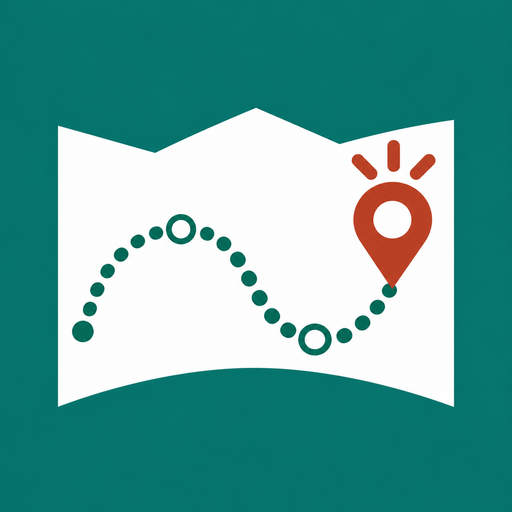
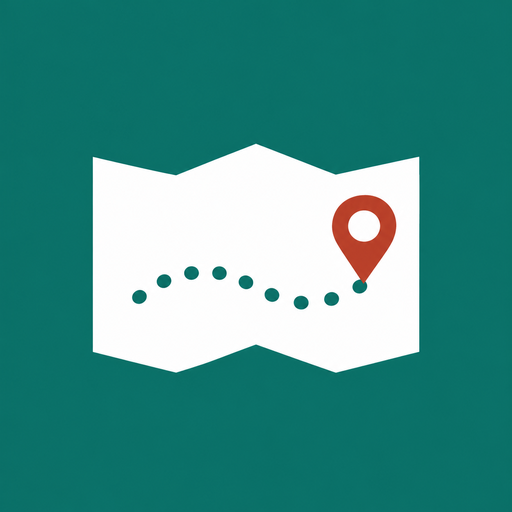
1.0.2: アイコンを D（余白のある地図とピン）に

Changed region(s): [[0.0938, 0.2188, 0.9062, 0.8125]]

diff --git a/sw.js b/sw.js
@@ -1,7 +1,7 @@
 // 旅ルートくんの殻をキャッシュする（設計書 §10.2）。API・地図タイル・写真はキャッシュしない。
 // 版ごとに丸ごと入れ替える：インストール時に殻を全部そろえる（1 つでも取れんかったら新しい版にせん）。
 // 稼働中の版をファイル単位で上書きせん（新旧の混在を防ぐ）。更新は CACHE_NAME を上げて置き直す。
-const CACHE_NAME = 'trk-v1.0.1';
+const CACHE_NAME = 'trk-v1.0.2';
 const SHELL = [
   './',
   './index.html',

diff --git a/js/app.js b/js/app.js
@@ -6,7 +6,7 @@ import * as home from './screens/home.js';
 import * as settings from './screens/settings.js';
 import * as loading from './screens/loading.js';
 
-export const APP_VERSION = '1.0.1';
+export const APP_VERSION = '1.0.2';
 
 const store = createStore();
 export const state = {
